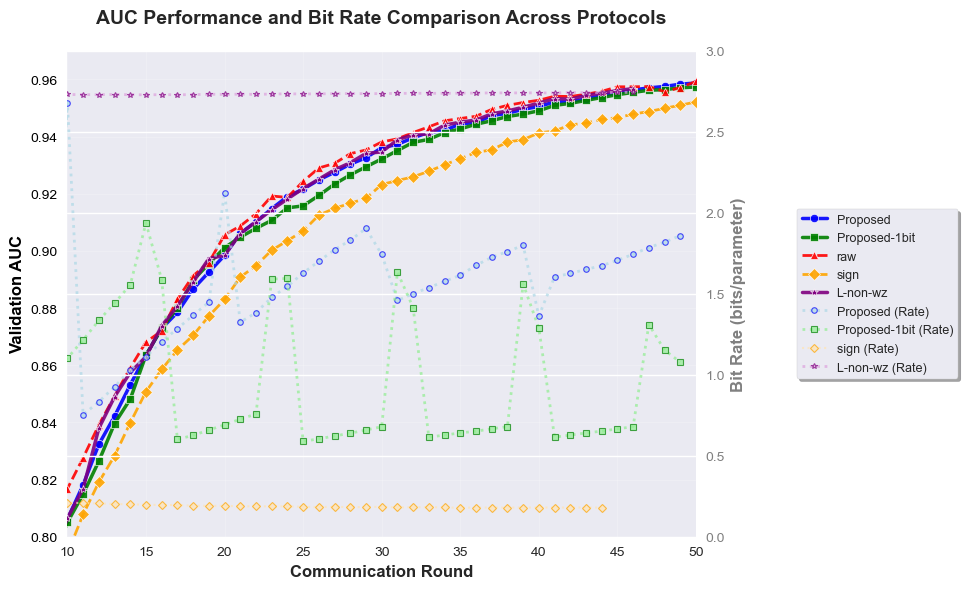
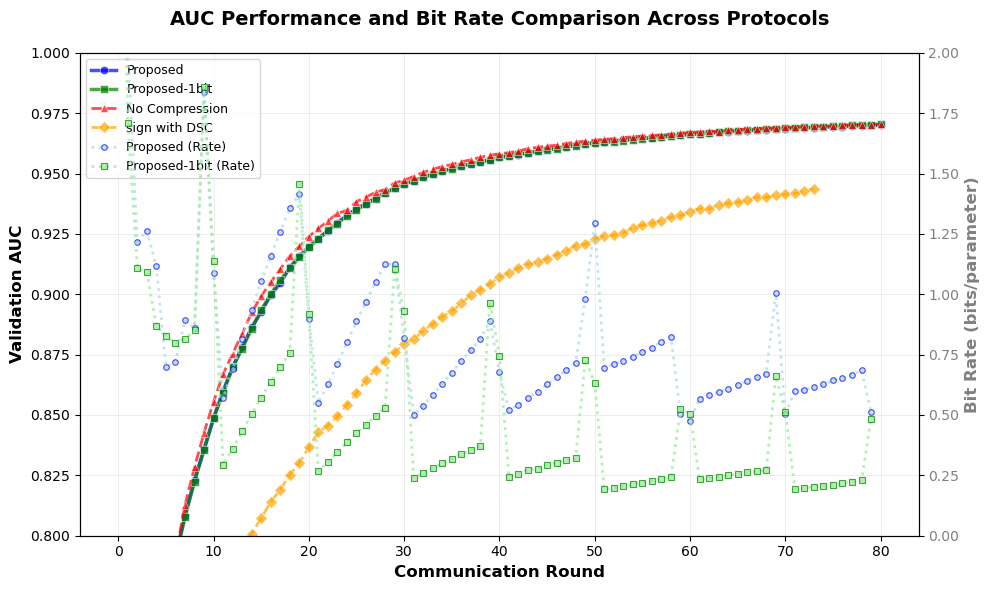
asaaaaaaaaaaa

diff --git a/Paper_doc/sections/3-Methods.tex b/Paper_doc/sections/3-Methods.tex
@@ -2,7 +2,7 @@
 \label{sec:ourmethod}
 %-----------------------------------------------------------------------
 In this section, we present our proposed framework.
-We consider a multi-terminal approach as we have multiple workers with correlated gradients. This link has been observed in other works~\cite{ZhangTao2022, Abrahamyan2022LGC} and further confirmed by us in~\ref{fig:grad_corr} (per-coordinate correlation).
+We consider a multi-terminal approach as we have multiple workers with correlated gradients. This link has been observed in other works~\cite{ZhangTao2022, Abrahamyan2022LGC} and further confirmed by us in~\ref{fig:grad_corr} (per-coordinate correlation). The distribution shift was also check via KL divergence and found to be very low.
 Since these agents do not communicate directly, we employ Distributed Source Coding (DSC) principles to exploit intra-node, and even temporal correlation.
 We first describe the quantizer framework, turning a gradient vector into a bitstream, and back. Then we will describe 2 different side information (SI) setup which define our two variants of the quantizer. Armed with these quantizers, we will finally explore possible communication protocols to leverage them in a federated learning setup.
 
@@ -38,11 +38,7 @@ Each element of this vector is then quantized, i.e. encoded into symbols \(u_{k,
 
 % -----------------------------------------------------------------------
 \textbf{Pre-/Post-processing.}
-WZQ is sensitive to distribution drift. We apply basic normalization per round using the 99th percentile to stabilize scales as gradients tend to become smaller in scale over time; with this, the round-to-round gradient KL for ResNet18 is \(<0.01\), indicating low shift. Two low-cost add-ons further improve performance but their benefit depends on the gradient distribution:
-
-\emph{\- Per-layer normalization:} mitigates large layer-wise scale disparities at the cost of sending layer min and max stats.
-
-\emph{\- Outlier handling:} values beyond \(0.3\times\\\mathrm{99th\ percentile}\) are pulled into range and quantized with the rest; minimal extra info is needed to restores them at server.
+Normalization per layers helps with training stability and lower distortion when scales are different between layers. Outliers are few and can be seperately encoded with a negligible rate cost. We also use a random permutation to break any spatial correlation which helps the quantizer generalize better.
 
 %-----------------------------------------------------------------------
 \subsubsection{Training Quantizers and SI variants}
@@ -72,7 +68,7 @@ The proposed protocol is shown in figure \ref{fig:protocols_timeline}. It consis
 \begin{figure}[ht]
 %    \includegraphics[width=0.5\textwidth]{sections/figure/protocols}
     \input{sections/figure/protocol_timeline}
-    \caption{Shows the overall idea of the propsed protocol as a timeline.}
+    \caption{Overall timeline of the propsed protocol. Temporal only quantization is trained on the workers and is limited to SI at the same worker and is better at higher rates. All-SI quantization is trained on the server and uses all workers' past reconstructions as SI.}
     \label{fig:protocols_timeline}
 \end{figure}
 

diff --git a/Paper_doc/sections/0-abstract.tex b/Paper_doc/sections/0-abstract.tex
@@ -1,7 +1,7 @@
 \begin{abstract}
 
- We address the growing communication bottleneck in synchronous federated and distributed deep learning, intensified by large models such as LLMs and ViTs. We present a learned distributed source coding (DSC) method that quantizes worker updates using a learned successive Wyner–Ziv (WZ) scheme. The server aggregates short-horizon side information from recent reconstructions across all workers, allowing the encoder to convert cross-worker and temporal redundancy into bit-rate savings while preserving model quality.
-Our approach is grounded in Slepian–Wolf and Wyner–Ziv limits for correlated sources, which motivate coding near conditional rates when side information is available. In contrast to past works that rely on uniform quantization or sparsification, we introduce: (i) a multi-terminal per-coordinate learned WZ quantizer with refinement stages, (ii) a protocol applying said quantizer in a standard FL training loop.
+ We address the growing communication bottleneck in synchronous federated and distributed deep learning, intensified by large models. We present a learned distributed source coding (DSC) method that quantizes worker updates using a learned successive Wyner–Ziv (WZ) scheme. The server aggregates short-horizon side information from recent reconstructions across all workers, allowing the encoder to convert cross-worker and temporal redundancy into bit-rate savings while preserving model quality.
+Our approach is grounded in Wyner–Ziv limits for correlated sources, which motivate coding near conditional rates when side information is available. In contrast to past works that rely on uniform quantization or sparsification, we introduce: (i) a multi-terminal per-coordinate learned WZ quantizer with refinement stages, (ii) a protocol applying said quantizer in a standard FL training loop.
 Our findings position learned intra-worker DSC quantization as a scalable communication primitive for federated learning and large-scale distributed training.
 \end{abstract}
 

diff --git a/Paper_doc/sections/4-Results.tex b/Paper_doc/sections/4-Results.tex
@@ -14,7 +14,7 @@ Due to complexity, the step requiring Slepian wolf coding is replaced with a joi
 \subsection{Rate-Distortion Performance}
 Figure \ref{fig:rate_distortion} shows the rate-distortion performance of the different communication protocols, including the proposed WZ quantizer, a learned non-WZ quantizer and the sign quantizer. To keep the comparison fair, we include the SW coding step in all protocols, with sign protocol getting a perfect prior which is not possible in practice.
 
-The WZ boundary was calculated using Blahut–Arimoto method which gives an empirical lower bound on the rate-distortion performance. Note that the boundry changes depending on the SI used and this boundry corresponds to the SI at round 35.
+The WZ boundary was calculated using Blahut–Arimoto method which gives an empirical lower bound on the rate-distortion performance. The SI used for this calculation is SI at round 25 which slightly before overfitting starts to happen.
 
 \figure[ht]
     \centering